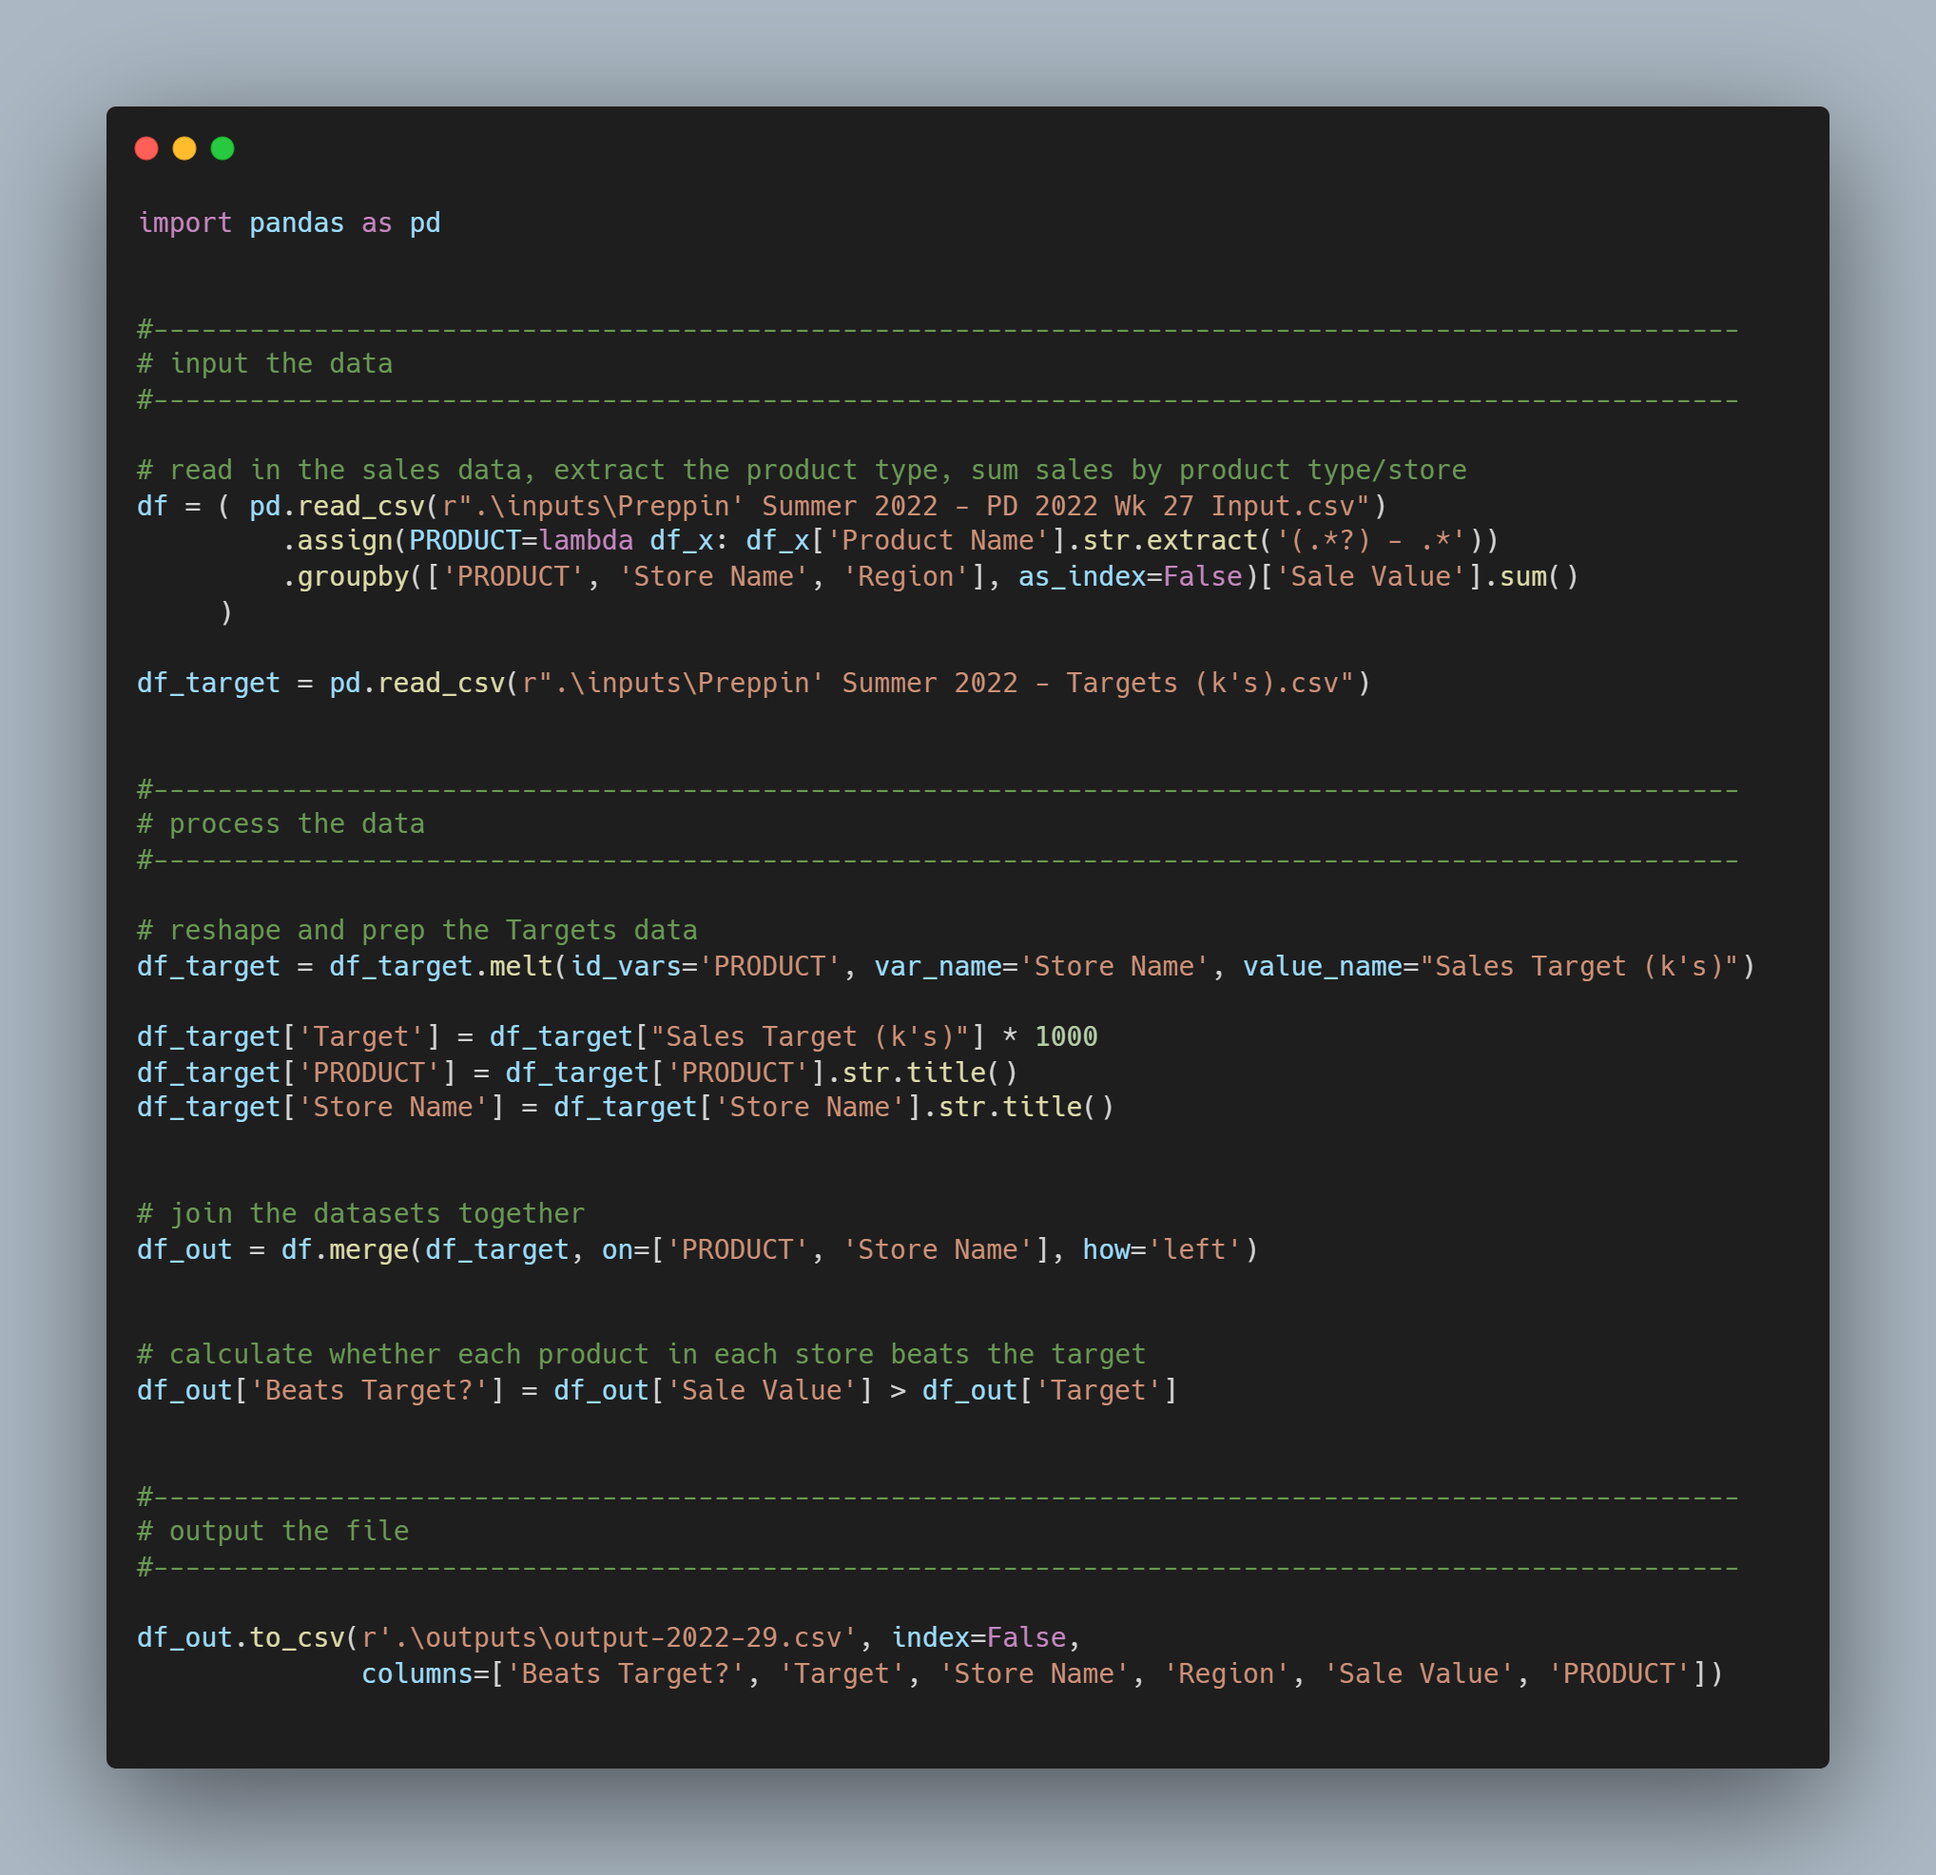
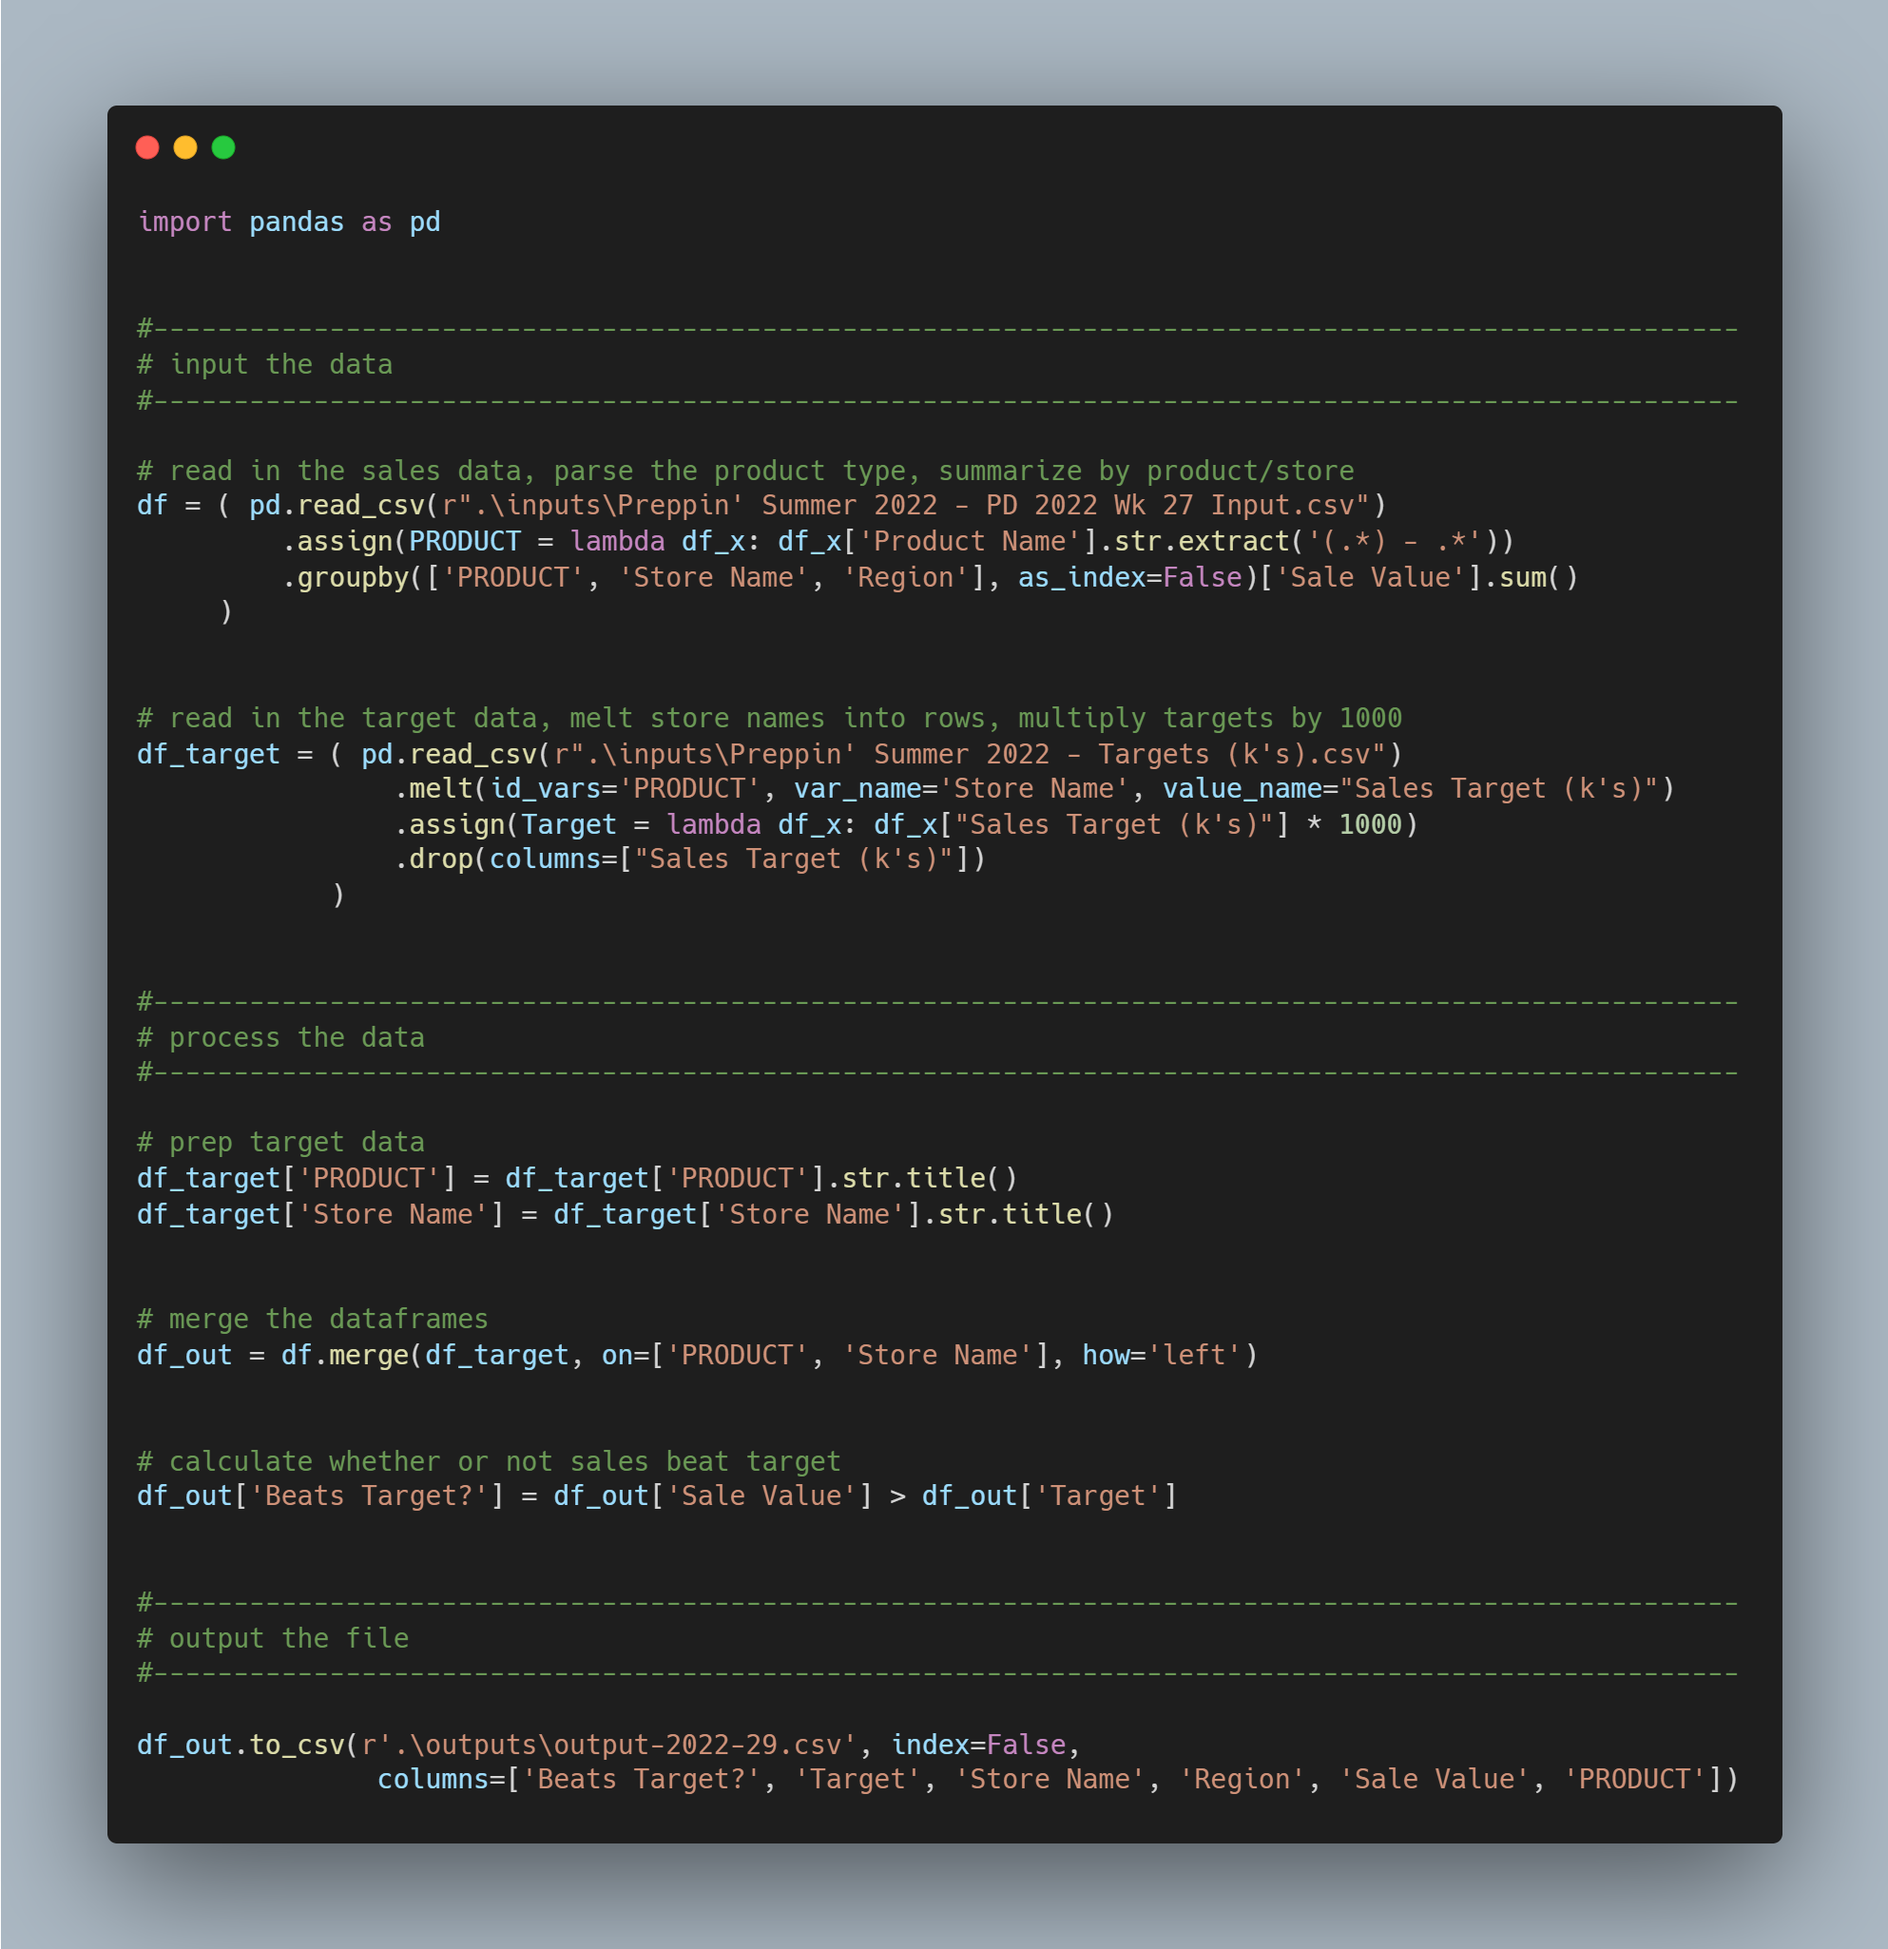
Fixed missing date in .py file, moved target prep to chain

diff --git a/2022/preppin-data-2022-29/preppin-data-2022-29.py b/2022/preppin-data-2022-29/preppin-data-2022-29.py
@@ -19,7 +19,7 @@ https://preppindata.blogspot.com/2022/07/2022-week-29-c-meeting-targets.html
 - Output the results
 
 Author: Kelly Gilbert
-Created: 2022-MM-DD
+Created: 2022-07-22
 Requirements:
   - input datasets:
       - Preppin' Summer 2022 - PD 2022 Wk 27 Input.csv
@@ -30,39 +30,42 @@ Requirements:
 
 
 import pandas as pd
-from output_check import output_check    # custom function for comparing my results to the solution
+from output_check import output_check    # custom function to check my results against the solution
 
 
 #---------------------------------------------------------------------------------------------------
 # input the data
 #---------------------------------------------------------------------------------------------------
 
-# read in the sales data, extract the product type, sum sales by product type/store
+# read in the sales data, parse the product type, summarize by product/store
 df = ( pd.read_csv(r".\inputs\Preppin' Summer 2022 - PD 2022 Wk 27 Input.csv")
-         .assign(PRODUCT=lambda df_x: df_x['Product Name'].str.extract('(.*?) - .*'))
+         .assign(PRODUCT = lambda df_x: df_x['Product Name'].str.extract('(.*) - .*'))
          .groupby(['PRODUCT', 'Store Name', 'Region'], as_index=False)['Sale Value'].sum()
      )
 
-df_target = pd.read_csv(r".\inputs\Preppin' Summer 2022 - Targets (k's).csv")
+
+# read in the target data, melt store names into rows, multiply targets by 1000
+df_target = ( pd.read_csv(r".\inputs\Preppin' Summer 2022 - Targets (k's).csv")
+                .melt(id_vars='PRODUCT', var_name='Store Name', value_name="Sales Target (k's)")
+                .assign(Target = lambda df_x: df_x["Sales Target (k's)"] * 1000)
+                .drop(columns=["Sales Target (k's)"])
+            )
 
 
 #---------------------------------------------------------------------------------------------------
 # process the data
 #---------------------------------------------------------------------------------------------------
 
-# reshape and prep the Targets data
-df_target = df_target.melt(id_vars='PRODUCT', var_name='Store Name', value_name="Sales Target (k's)")
-
-df_target['Target'] = df_target["Sales Target (k's)"] * 1000
+# prep target data
 df_target['PRODUCT'] = df_target['PRODUCT'].str.title()
 df_target['Store Name'] = df_target['Store Name'].str.title()
 
 
-# join the datasets together
-df_out = df.merge(df_target, on=['PRODUCT', 'Store Name'], how='left')    
-   
+# merge the dataframes
+df_out = df.merge(df_target, on=['PRODUCT', 'Store Name'], how='left')  
 
-# calculate whether each product in each store beats the target
+
+# calculate whether or not sales beat target
 df_out['Beats Target?'] = df_out['Sale Value'] > df_out['Target']
 
 
@@ -70,8 +73,8 @@ df_out['Beats Target?'] = df_out['Sale Value'] > df_out['Target']
 # output the file
 #---------------------------------------------------------------------------------------------------
 
-df_out.to_csv(r'.\outputs\output-2022-29.csv', index=False, 
-              columns=['Beats Target?', 'Target', 'Store Name', 'Region', 'Sale Value', 'PRODUCT'])
+df_out.to_csv(r'.\outputs\output-2022-29.csv', index=False,
+               columns=['Beats Target?', 'Target', 'Store Name', 'Region', 'Sale Value', 'PRODUCT'])
 
 
 #---------------------------------------------------------------------------------------------------
